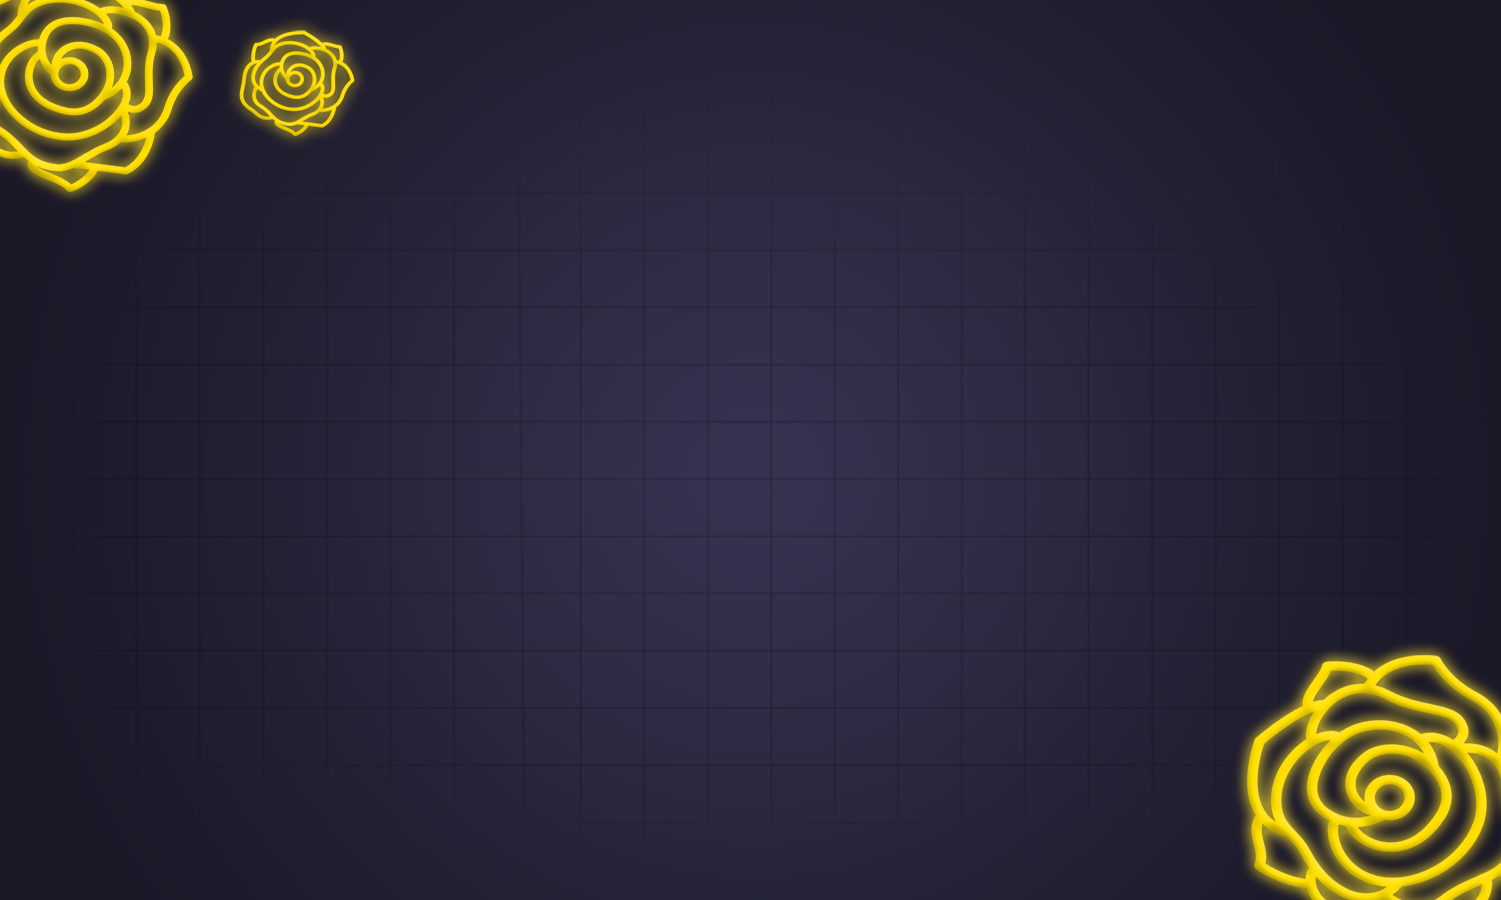
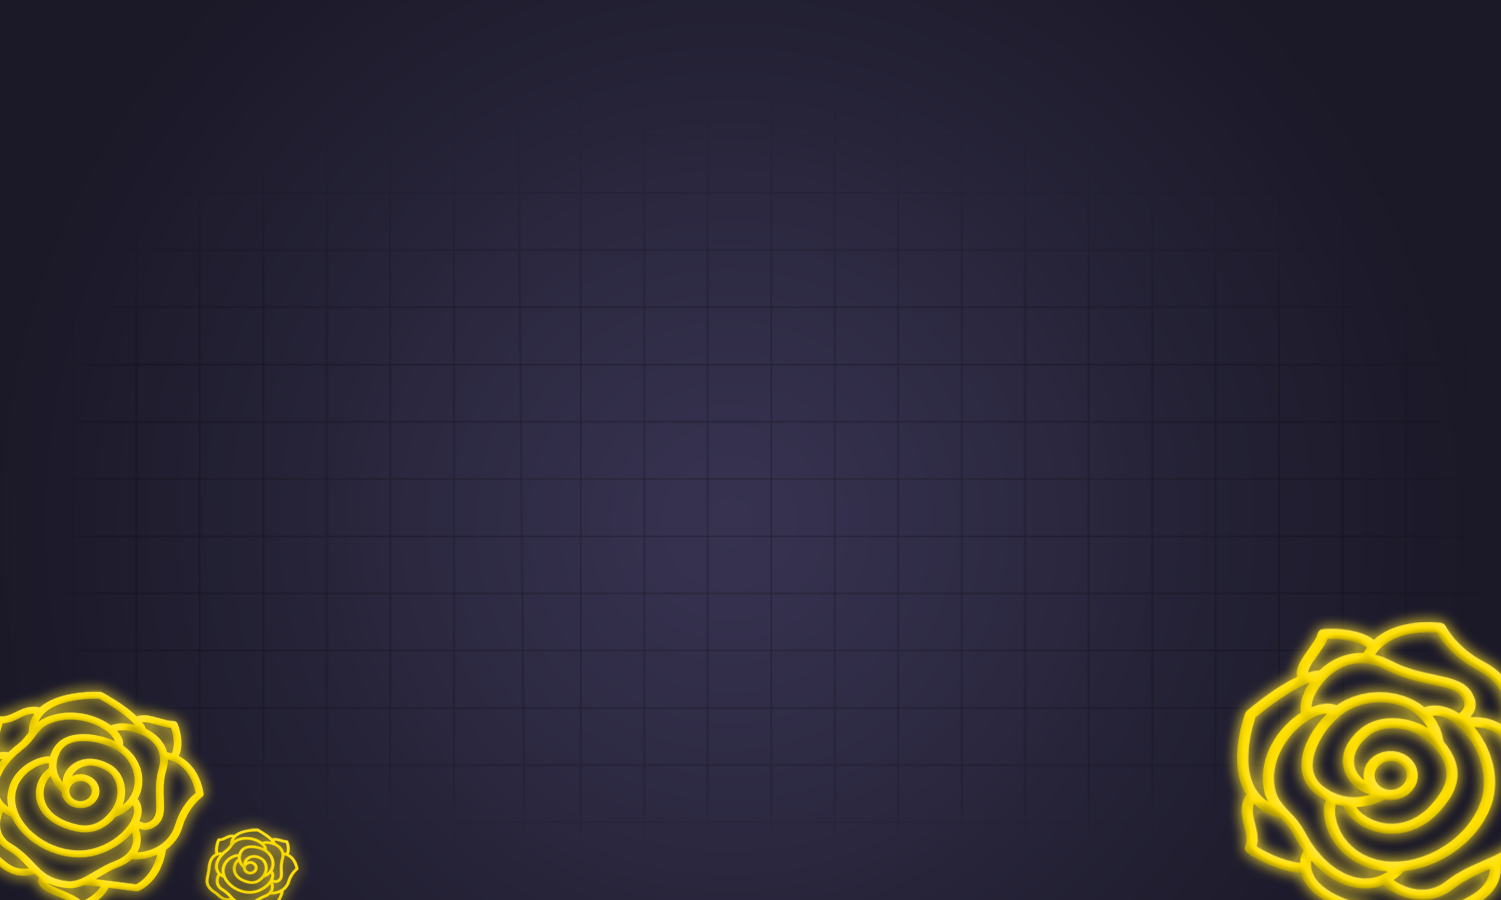
new background and reposition

Changed region(s): [[0.7968, 0.6844, 1.0, 1.0], [0.0, 0.7467, 0.2145, 1.0], [0.0, 0.0, 0.2452, 0.2178]]

diff --git a/style.css b/style.css
@@ -119,14 +119,12 @@ body *{
 #card>.content>div{ 
     display: block;
     position: relative;
-    z-index: 0;
 }
 #card>.content>div:nth-child(1)>div>img{ 
     position: absolute;
-    height: 25%;
-    left: 180px;
+    height: 30px;
+    left: 175px;
     top: 70px;
-    z-index: -1;
     transform: rotate(10deg);
 }
 #card>.content>div>div{ 
